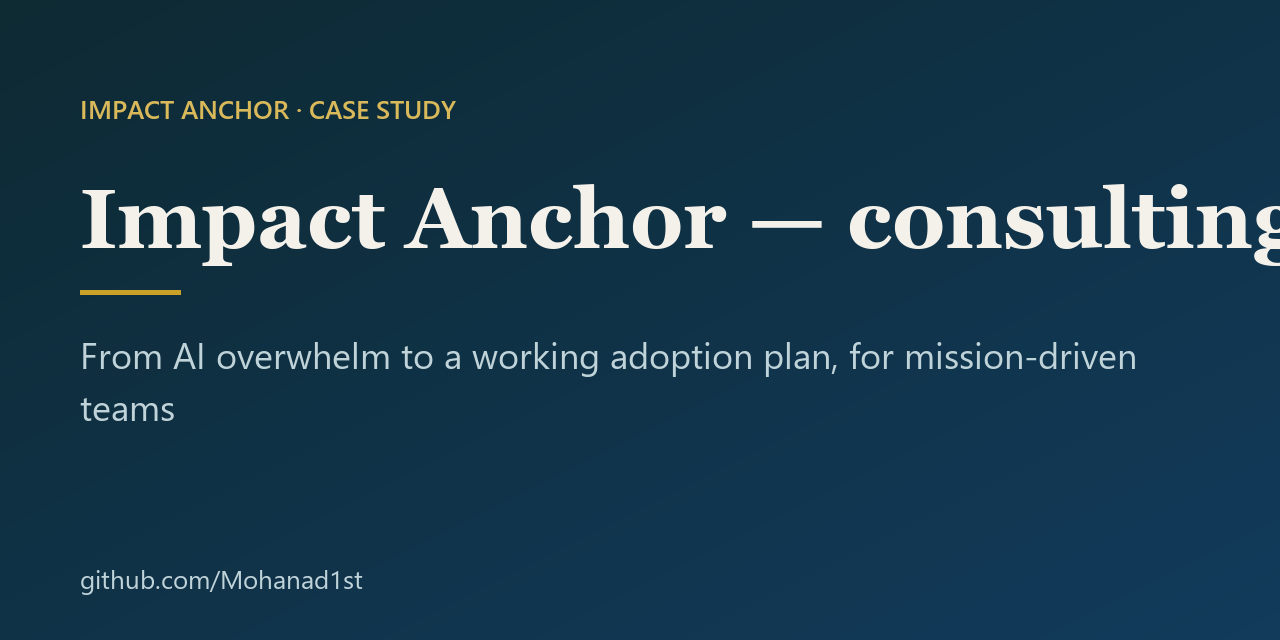
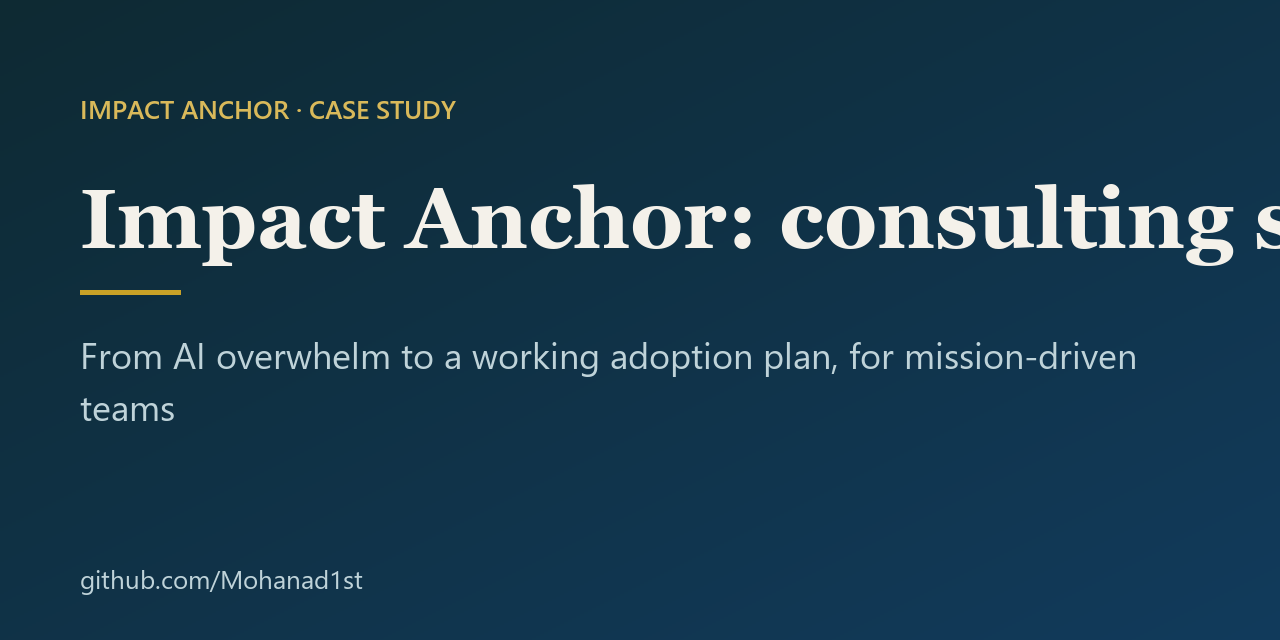
docs: rewrite case study in plain first-person voice
Every factual line checked against its source; overstated or unsourced lines removed or corrected.

Changed region(s): [[0.5625, 0.2812, 1.0, 0.4375]]

diff --git a/README.md b/README.md
@@ -1,27 +1,27 @@
-<p align="center"><img src="assets/banner.svg" alt="Impact Anchor — consulting site" width="100%"></p>
+<p align="center"><img src="assets/banner.svg" alt="Impact Anchor: consulting site" width="100%"></p>
 
 <p align="center"><b>From AI overwhelm to a working adoption plan, for mission-driven teams</b></p>
 
 <p align="center" dir="rtl" lang="ar">من الحيرة أمام الذكاء الاصطناعي إلى خطة واضحة لتبنّيه</p>
 
-<p align="center"><b>Status:</b> Live · final updates in progress &nbsp;·&nbsp; <b>Built by</b> <a href="https://github.com/Mohanad1st">Mohannad Hesham</a></p>
+<p align="center"><b>Status:</b> Live · Arabic content and assistant updates still rolling out &nbsp;·&nbsp; <b>Built by</b> <a href="https://github.com/Mohanad1st">Mohannad Hesham</a></p>
 
-> Case study only: the source is private because it is a live business site with its own admin area. Walkthrough on request.
+> This is a case study. The source is private because it is a live business site with its own admin area.
 
-## The problem
+## Why I built it
 
-Organisations across the Gulf and MENA want to use AI but are stuck between hype and fear. This is the site for Impact Anchor, my AI and evidence advisory practice: a clear method, case studies with real screens and numbers, training, and a short way to start — with no prices and no checkout, because the right first step is a conversation.
+Organisations across the Gulf and MENA want to use AI but are stuck between hype and fear. This is the site for Impact Anchor, my AI and evidence advisory work: a clear method, case studies with the real screens, training, and a short way to start. There are no prices and no checkout. The right first step is a conversation.
 
 ## What it does
 
-- A bilingual site explaining a structured AI-adoption method
-- Case studies with the challenge, approach, outcome and the screens behind them
-- Training and speaking pages
-- An assistant that answers visitors' questions from the site's own content
-- Spam-protected contact and a book-a-call flow
-- An admin area for publishing content
+- A bilingual site that explains a structured AI-adoption method.
+- Case studies with the challenge, the approach, the outcome and the screens behind them.
+- Training and speaking pages.
+- An assistant that answers visitors' questions from the site's own content.
+- Spam-protected contact, and a book-a-call flow.
+- An admin area for publishing content.
 
-## See it
+## How it works
 
 **[Visit the Impact Anchor site](https://www.impact-anchor-ai.com)**
 
@@ -29,21 +29,21 @@ Organisations across the Gulf and MENA want to use AI but are stuck between hype
 
 <sub>All screens show demo data or public pages only.</sub>
 
-## Built with
+## What it's built on
 
-React · TypeScript · PostgreSQL with auth and storage · serverless functions · deployed on managed hosting
+React · TypeScript · PostgreSQL with auth and storage · serverless functions · managed hosting
 
-## Built responsibly
+## Safeguards
 
-- Role-based access for the admin area
-- Row-level security limits what the public can read or write
-- Security headers applied site-wide
-- Only public keys ever reach the browser
-- Tests, lint and build checks run before changes ship
+- Role-based access for the admin area.
+- Row-level security limits what the public can read or write.
+- Security headers across the site.
+- Only public keys ever reach the browser.
+- Tests, lint and build checks run in CI on every pull request.
 
-## What it deliberately doesn't do
+## What it doesn't do
 
-- There is no pricing or checkout on purpose.
+- No pricing or checkout, on purpose.
 
 ## More from Impact Anchor
 
